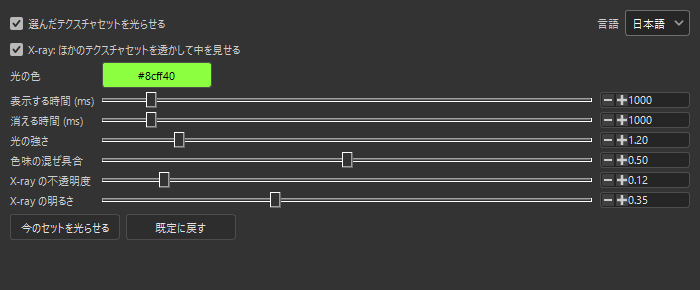
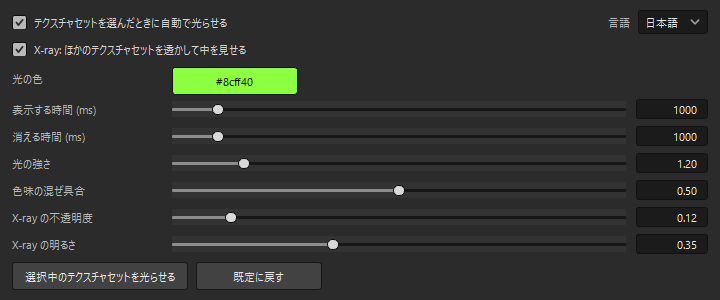
Panel styled like Painter's property panels; clearer button labels

diff --git a/texset_spotlight.py b/texset_spotlight.py
@@ -49,17 +49,42 @@ _plugin = None
 # UI strings. The panel has a language switch; the default follows the system locale.
 TEXT = {
     "en": {"menu": "Spotlight", "open": "Open the Spotlight panel", "panel": "Spotlight", "language": "Language",
-           "enabled": "Flash the selected texture set", "xray": "X-ray: see through the other texture sets",
+           "enabled": "Flash automatically when a texture set is selected", "xray": "X-ray: see through the other texture sets",
            "color": "Highlight color", "color_dialog": "Spotlight color", "hold_ms": "Hold time (ms)", "fade_ms": "Fade time (ms)",
            "intensity": "Highlight intensity", "tint": "Highlight tint", "ghost_alpha": "X-ray opacity", "ghost_dim": "X-ray brightness",
-           "flash_now": "Flash now", "reset": "Reset to defaults"},
+           "flash_now": "Flash the selected texture set", "reset": "Reset to defaults"},
     "ja": {"menu": "スポットライト", "open": "スポットライトのパネルを開く", "panel": "スポットライト", "language": "言語",
-           "enabled": "選んだテクスチャセットを光らせる", "xray": "X-ray: ほかのテクスチャセットを透かして中を見せる",
+           "enabled": "テクスチャセットを選んだときに自動で光らせる", "xray": "X-ray: ほかのテクスチャセットを透かして中を見せる",
            "color": "光の色", "color_dialog": "光の色", "hold_ms": "表示する時間 (ms)", "fade_ms": "消える時間 (ms)",
            "intensity": "光の強さ", "tint": "色味の混ぜ具合", "ghost_alpha": "X-ray の不透明度", "ghost_dim": "X-ray の明るさ",
-           "flash_now": "今のセットを光らせる", "reset": "既定に戻す"},
+           "flash_now": "選択中のテクスチャセットを光らせる", "reset": "既定に戻す"},
 }
 LANGS = [("en", "English"), ("ja", "日本語")]
+
+# Styling close to Painter's own property panels: dark fields, thin slider with a round handle,
+# numeric boxes without spin arrows, flat gray buttons.
+PANEL_QSS = """
+QWidget#TexSetSpotlightPanel { background: #2b2b2b; }
+QLabel { color: #b8b8b8; }
+QCheckBox { color: #d4d4d4; spacing: 7px; }
+QCheckBox::indicator { width: 13px; height: 13px; border: 1px solid #121212; border-radius: 2px; background: #1b1b1b; }
+QCheckBox::indicator:hover { border: 1px solid #5a5a5a; }
+QCheckBox::indicator:checked { background: #9a9a9a; border: 1px solid #0d0d0d; }
+QSlider::groove:horizontal { height: 3px; background: #171717; border-radius: 1px; }
+QSlider::sub-page:horizontal { background: #8d8d8d; border-radius: 1px; }
+QSlider::add-page:horizontal { background: #171717; border-radius: 1px; }
+QSlider::handle:horizontal { width: 10px; height: 10px; margin: -4px 0; background: #d9d9d9; border: 1px solid #0d0d0d; border-radius: 5px; }
+QSlider::handle:horizontal:hover { background: #ffffff; }
+QSpinBox, QDoubleSpinBox, QComboBox { background: #1b1b1b; color: #e8e8e8; border: 1px solid #111111; border-radius: 3px;
+    padding: 2px 6px; selection-background-color: #5c5c5c; }
+QSpinBox:hover, QDoubleSpinBox:hover, QComboBox:hover { border: 1px solid #5a5a5a; }
+QSpinBox::up-button, QSpinBox::down-button, QDoubleSpinBox::up-button, QDoubleSpinBox::down-button { width: 0px; border: none; }
+QComboBox::drop-down { border: none; width: 18px; }
+QComboBox QAbstractItemView { background: #1b1b1b; color: #e8e8e8; selection-background-color: #4a4a4a; border: 1px solid #111111; }
+QPushButton { background: #424242; color: #e8e8e8; border: 1px solid #171717; border-radius: 3px; padding: 4px 12px; min-height: 18px; }
+QPushButton:hover { background: #505050; }
+QPushButton:pressed { background: #303030; }
+"""
 
 
 def T(cfg, key):
@@ -432,11 +457,12 @@ class SettingsPanel(QtWidgets.QWidget):
         self.owner = owner
         self.setWindowTitle(T(owner.cfg, "panel"))
         self.setObjectName("TexSetSpotlightPanel")
+        self.setStyleSheet(PANEL_QSS)
         self.controls = {}
         self.labels = {}
         lay = QtWidgets.QVBoxLayout(self)
-        lay.setContentsMargins(10, 10, 10, 10)
-        lay.setSpacing(6)
+        lay.setContentsMargins(12, 10, 12, 10)
+        lay.setSpacing(8)
 
         top = QtWidgets.QHBoxLayout()
         self.chk_enabled = QtWidgets.QCheckBox()
@@ -456,16 +482,19 @@ class SettingsPanel(QtWidgets.QWidget):
         lay.addWidget(self.chk_xray)
 
         form = QtWidgets.QGridLayout()
-        form.setHorizontalSpacing(8)
-        form.setVerticalSpacing(4)
+        form.setHorizontalSpacing(10)
+        form.setVerticalSpacing(7)
+        form.setColumnMinimumWidth(0, 150)
+        form.setColumnStretch(1, 1)
         lay.addLayout(form)
         self.row = 0
         self.color_btn = QtWidgets.QPushButton()
-        self.color_btn.setFixedWidth(90)
+        self.color_btn.setFixedSize(110, 22)
+        self.color_btn.setCursor(QtCore.Qt.PointingHandCursor)
         self.color_btn.clicked.connect(self.pick_color)
         self.labels["color"] = QtWidgets.QLabel()
         form.addWidget(self.labels["color"], self.row, 0)
-        form.addWidget(self.color_btn, self.row, 1)
+        form.addWidget(self.color_btn, self.row, 1, 1, 2, QtCore.Qt.AlignLeft)
         self.row += 1
         self.add_slider(form, "hold_ms", 100, 10000, 100, 1)
         self.add_slider(form, "fade_ms", 100, 10000, 100, 1)
@@ -515,7 +544,9 @@ class SettingsPanel(QtWidgets.QWidget):
             spin.setRange(lo, hi)
             spin.setSingleStep(step)
             spin.setDecimals(2)
-        spin.setFixedWidth(90)
+        spin.setFixedWidth(72)
+        spin.setAlignment(QtCore.Qt.AlignRight)
+        spin.setButtonSymbols(QtWidgets.QAbstractSpinBox.NoButtons)
         guard = {"busy": False}
 
         def from_slider(v):
@@ -563,7 +594,8 @@ class SettingsPanel(QtWidgets.QWidget):
         c = self.owner.cfg["color"]
         col = QtGui.QColor.fromRgbF(c[0], c[1], c[2])
         self.color_btn.setText(col.name())
-        self.color_btn.setStyleSheet("background-color: %s; color: %s;" % (col.name(), "#000" if col.lightnessF() > 0.5 else "#fff"))
+        self.color_btn.setStyleSheet("QPushButton { background-color: %s; color: %s; border: 1px solid #111111; border-radius: 3px; }"
+                                     % (col.name(), "#000" if col.lightnessF() > 0.5 else "#fff"))
 
     def pick_color(self):
         c = self.owner.cfg["color"]

diff --git a/README.md b/README.md
@@ -18,8 +18,9 @@ semi-transparent during the flash so you can also spot parts hidden inside the m
 - Never touches your layer stacks. Shader assignments are restored when the flash ends, before every save/close,
   and on the next open if Painter crashed in the middle of a flash
 - Click **Spotlight** in the menu bar to open the settings panel: everything in one dockable window
-  (enable/disable, X-ray, highlight color, hold/fade time, intensity, tint, X-ray opacity/brightness, Flash now,
-  Reset to defaults). Changes apply immediately and persist between sessions
+  (auto-flash on/off, X-ray, highlight color, hold/fade time, intensity, tint, X-ray opacity/brightness,
+  "Flash the selected texture set", "Reset to defaults"). Changes apply immediately and persist between sessions.
+  The panel is styled to match Painter's own property panels
 - UI in English or Japanese (switch in the panel; defaults to Japanese on a Japanese system)
 
 ![Settings panel](docs/spotlight_panel.png)
@@ -87,8 +88,9 @@ Substance 3D Painter 用プラグインです。「X-ray」をオンにすると
 - X-ray: ほかのセットを不透明度 12 %・明るさ 35 % にする（変えられる・切れる）
 - レイヤーは触らない。光り終わったとき・保存や閉じる前・途中で落ちたときの次回起動時に、元のシェーダーの割り当てへ戻す
 - メニューバーの「Spotlight」をクリックすると設定パネルが開く（Painter のドックなので好きな場所に置ける。閉じたら
-  ウィンドウメニューから再表示）。有効/無効、X-ray、色、表示時間、消える時間、強さ、色味、X-ray の不透明度・明るさ、
-  今すぐ光らせる、既定に戻す、がすべてこのパネルにある。変えた値はその場で反映され、次回起動後も残る
+  ウィンドウメニューから再表示）。自動で光らせるかどうか、X-ray、光の色、表示する時間、消える時間、光の強さ、色味の混ぜ具合、
+  X-ray の不透明度・明るさ、「選択中のテクスチャセットを光らせる」、「既定に戻す」がすべてこのパネルにある。
+  変えた値はその場で反映され、次回起動後も残る。見た目は Painter のプロパティパネルに合わせてある
 - パネル右上の「言語」で日本語と English を切り替えられる（日本語の Windows では最初から日本語）
 
 ![設定パネル（日本語）](docs/spotlight_panel_ja.png)
